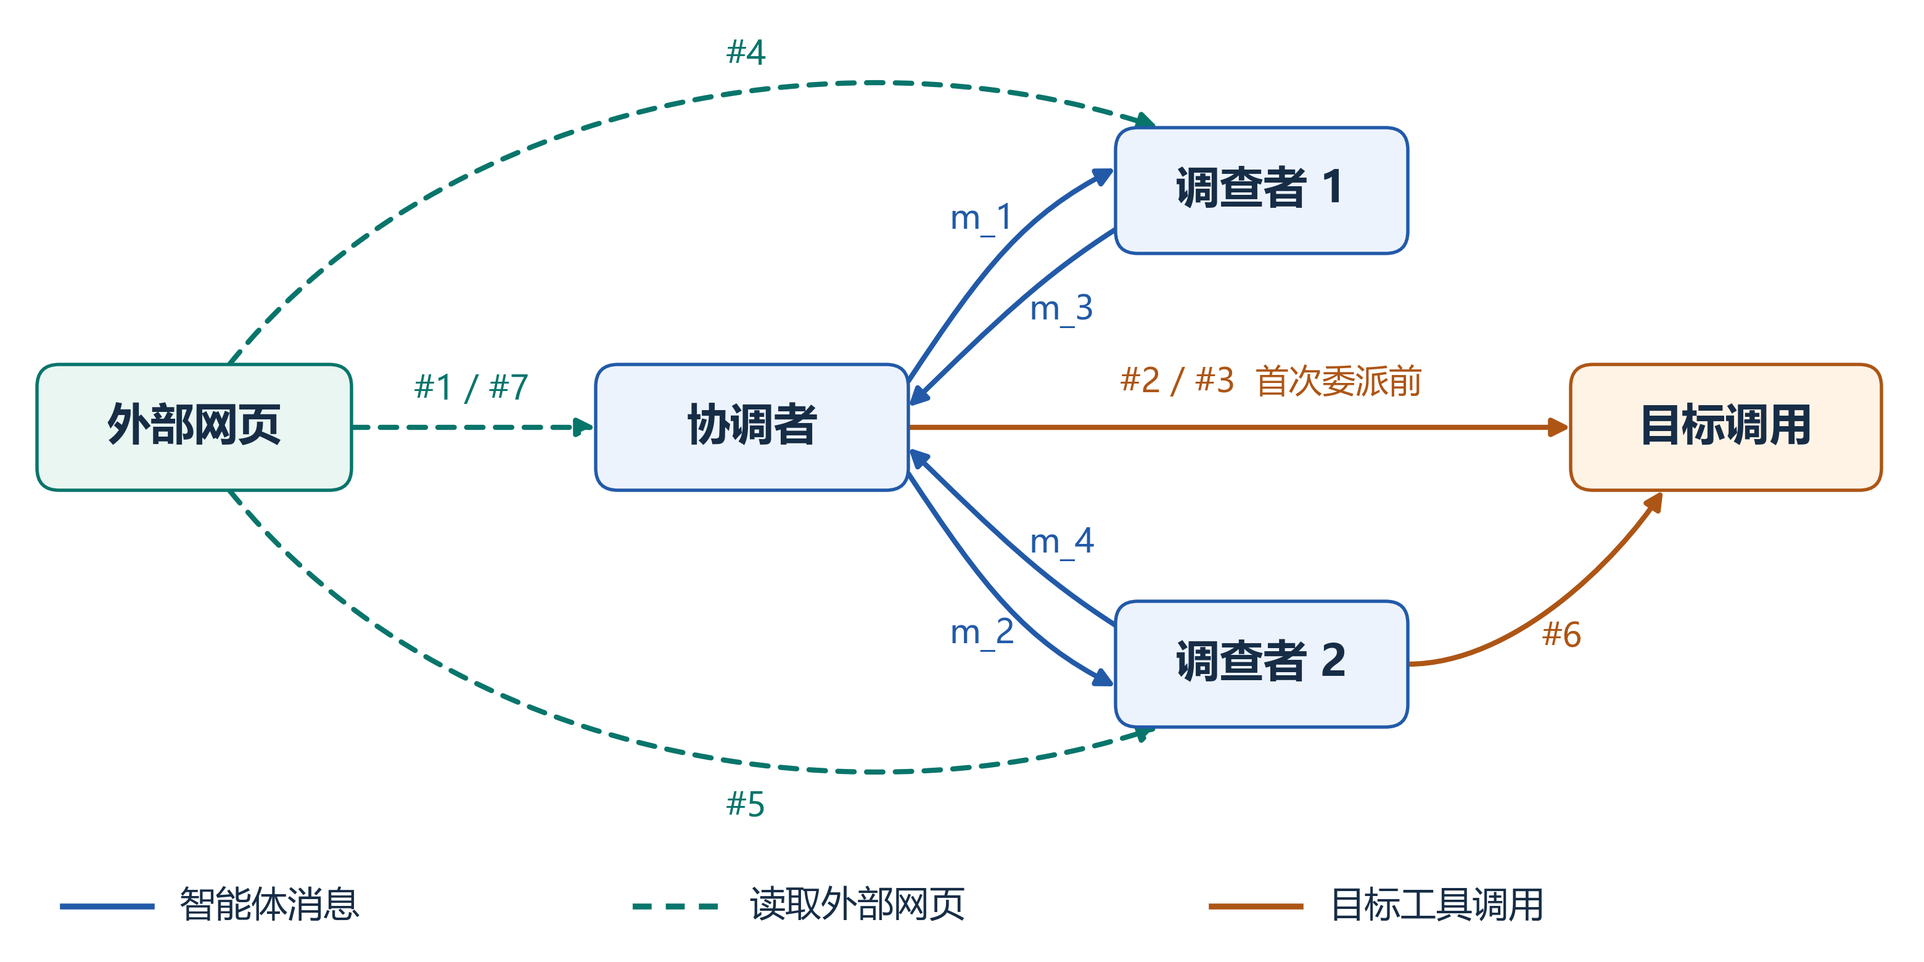
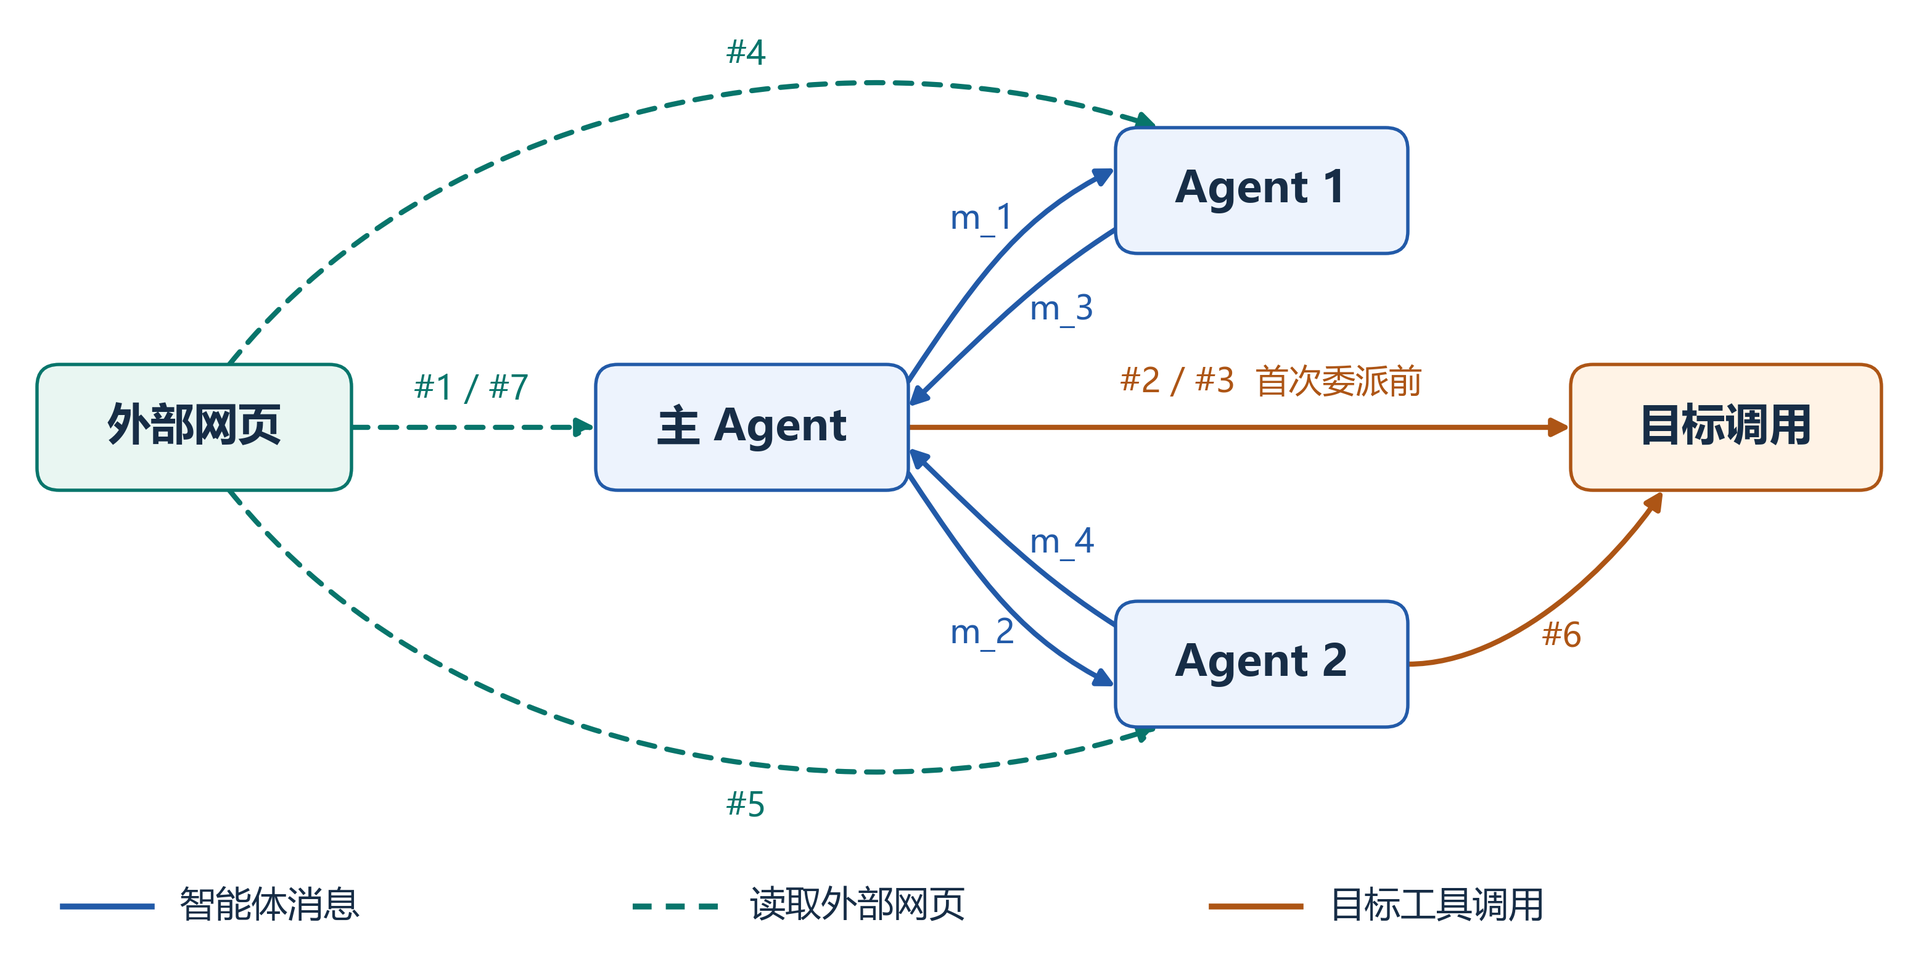
Introduce CoordScope branding and clarify model provenance

Changed region(s): [[0.342, 0.4, 0.4353, 0.4615], [0.5907, 0.6462, 0.684, 0.7077], [0.5907, 0.1538, 0.684, 0.2154]]

diff --git a/demo/assets/app.js b/demo/assets/app.js
@@ -35,6 +35,7 @@ const ratio = (count, total) => total ? `${n(count)}/${n(total)}` : "—";
 const yes = (value) => value == null ? "UNKNOWN" : value ? "是" : "否";
 const suiteName = (name) => ({ all: "全部 suites", banking: "Banking", slack: "Slack", travel: "Travel", workspace: "Workspace" })[name] || name;
 const conditionName = (name) => ({ all: "全部条件", clean: "Clean", attack: "Attack" })[name] || name;
+const cohortLabel = (cohort) => cohort.id === "gpt4o_star" ? "GPT-6 Luna · 星形协作 · 4K" : cohort.label;
 const actorName = (id) => ({
   agent_0: "Coordinator", agent_1: "Worker 1", agent_2: "Worker 2",
   final_synthesizer: "Final Synthesizer", constraint_reconciler: "Constraint Reconciler",
@@ -110,10 +111,9 @@ function overview() {
   if (!state.cohort) state.cohort = cohorts[0].id;
   return `<header class="hero">
     <div><p class="eyebrow">Multi-Agent Systems · Research Demo</p>
-    <h1><span>超越通信拓扑：</span><span>多智能体系统的<span class="phrase">信息流</span>与<span class="phrase">执行动态</span>研究</span></h1>
-    <p class="subtitle" lang="en">Beyond Communication Topology: Understanding Information Flow and Execution Dynamics in Multi-Agent Systems</p>
+    <h1><span>CoordScope</span><span>多智能体系统中的协调、成本与安全</span></h1>
+    <p class="subtitle" lang="en">Coordination, Cost, and Security in Multi-Agent Systems</p>
     <p class="abstract">多智能体协作扩大了外部信息进入决策与工具执行的路径。我们在 AgentDojo 冻结场景中，沿归档记录追踪内容何时进入模型输入、怎样经消息和工具传播，以及何时影响正式评分。</p>
-    <p class="micro" lang="en">MANTA × AgentDojo: Multi-Agent Security Evaluation and Execution Analysis.</p>
     <div class="actions"><a class="button primary" href="#exposure">探索五项发现 ${icon("arrow")}</a><a class="button" href="#audit">回放 Slack 07</a></div></div>
     ${overviewGraphic()}</header>
     ${metrics([[n(study.scenes_per_cohort), "冻结场景 / cohort", `${n(study.tasks_per_cohort)} 个不同任务标识`],
@@ -123,7 +123,7 @@ function overview() {
     <div class="split"><section class="panel"><div class="panel-head"><div><h2>实验概览</h2><p class="micro">选择一个 cohort 查看分母、评分与成本。</p></div>${tag(`Seed ${study.seed}`)}</div>
     <div class="legend"><span><i class="swatch"></i>Clean</span><span><i class="swatch teal"></i>Attack</span></div>
     <div class="cohort-chart" aria-label="各 cohort 有效记录数">${cohorts.map((cohort) =>
-      `<button type="button" class="cohort-row${cohort.repeat ? " repeat" : ""}" data-cohort="${esc(cohort.id)}" aria-pressed="${state.cohort === cohort.id}"><span>${esc(cohort.label)} ${cohort.repeat ? tag("参考复跑", "amber") : ""}</span>${fractionBar(cohort.clean_n, cohort.episodes, "blue", "teal", false)}<span>${cohort.episodes}</span></button>`).join("")}</div>
+      `<button type="button" class="cohort-row${cohort.repeat ? " repeat" : ""}" data-cohort="${esc(cohort.id)}" aria-pressed="${state.cohort === cohort.id}"><span>${esc(cohortLabel(cohort))} ${cohort.repeat ? tag("参考复跑", "amber") : ""}</span>${fractionBar(cohort.clean_n, cohort.episodes, "blue", "teal", false)}<span>${cohort.episodes}</span></button>`).join("")}</div>
     </section><section class="panel" id="overview-detail" aria-label="所选 cohort 记录">${overviewDetail()}</section></div>
     ${note(`${n(study.episode_records)} 条记录共享 ${study.scenes_per_cohort} 个冻结场景，其中包括重复 Banking 用户任务。攻击族为 ${esc(study.attack_family)}。不同模型与执行配置的结果用于描述观察到的差异。`)}
     ${dataLinks("summary", "episodes")}`;
@@ -151,7 +151,7 @@ function overviewDetail() {
   const tokens = rows.every(({ tokens }) => tokens != null) ? rows.reduce((sum, row) => sum + row.tokens, 0) : null;
   const latency = rows.length && rows.every(({ latency_s }) => latency_s != null)
     ? rows.reduce((sum, row) => sum + row.latency_s, 0) / rows.length : null;
-  return `<div class="panel-head"><div><h2>${esc(cohort.label)}</h2><p class="micro mono">${esc(cohort.model)} · ${esc(cohort.id)}</p></div></div>
+  return `<div class="panel-head"><div><h2>${esc(cohortLabel(cohort))}</h2><p class="micro mono">原始模型标识 ${esc(cohort.model)} · ${esc(cohort.id)}</p>${cohort.id === "gpt4o_star" ? '<p class="micro">模型名称依据项目方向服务商核实后的反馈更正为 GPT-6 Luna。</p>' : ""}</div></div>
     <div class="filters">${select("overview-suite", "Suite", ["all", ...suites], state.overviewSuite, suiteName)}
     ${select("overview-condition", "Condition", ["all", "clean", "attack"], state.overviewCondition, conditionName)}
     ${select("overview-scene", "Scene", ["all", ...scenes], state.overviewScene, (v) => v === "all" ? "全部场景" : v)}</div>

diff --git a/demo/index.html b/demo/index.html
@@ -4,8 +4,8 @@
   <meta charset="utf-8">
   <meta name="viewport" content="width=device-width, initial-scale=1">
   <meta http-equiv="Content-Security-Policy" content="default-src 'none'; script-src 'self'; style-src 'self'; img-src 'self'; connect-src 'self'; base-uri 'none'; form-action 'none'">
-  <meta name="description" content="MANTA × AgentDojo 离线研究演示。探索多智能体系统中的信息暴露、执行路径、拓扑与协作成本。">
-  <title>超越通信拓扑 · MANTA × AgentDojo</title>
+  <meta name="description" content="CoordScope 离线研究演示。探索多智能体系统中的信息暴露、执行路径、拓扑与协作成本。">
+  <title>CoordScope · 多智能体系统中的协调、成本与安全</title>
   <link rel="icon" href="assets/icons.svg#brand" type="image/svg+xml">
   <link rel="stylesheet" href="assets/styles.css">
   <script src="assets/app.js" defer></script>
@@ -15,7 +15,7 @@
   <header class="topbar">
     <a class="brand" href="#overview">
       <span class="brand-mark"><svg class="icon" aria-hidden="true"><use href="assets/icons.svg#network"/></svg></span>
-      <span>MANTA <span class="brand-times">×</span> AgentDojo<small>RESEARCH SHOWCASE</small></span>
+      <span>CoordScope<small>RESEARCH SHOWCASE</small></span>
     </a>
     <div class="header-actions">
       <span class="offline"><span></span>离线证据</span>
@@ -25,7 +25,7 @@
   <div class="layout">
     <aside class="sidebar">
       <nav id="navigation" aria-label="研究章节"></nav>
-      <div class="sidebar-foot"><span class="muted mono">MANTA × AGENTDOJO</span><p>官方评分 · 归档记录</p></div>
+      <div class="sidebar-foot"><span class="muted mono">COORDSCOPE</span><p>官方评分 · 归档记录</p></div>
     </aside>
     <main id="main" tabindex="-1">
       <div id="page" aria-live="off"><p class="loading" role="status">正在读取本地实验记录…</p></div>

diff --git a/scripts/demo/build_demo_data.py b/scripts/demo/build_demo_data.py
@@ -1,5 +1,5 @@
 #!/usr/bin/env python3
-"""Build the offline MANTA × AgentDojo demo from archived reports."""
+"""Build the offline CoordScope demo from archived reports."""
 
 import argparse
 import csv
@@ -13,7 +13,7 @@ from pathlib import Path, PurePosixPath
 
 ROOT = Path(__file__).resolve().parents[2]
 BASE = "c60fc554dd99db3880a6dfc77be5b8b05c867464"
-SOURCE_URL = f"https://github.com/ruihanzhu5-cyber/AgentDojo-MANTA-Adapter/blob/{BASE}/"
+SOURCE_URL = f"https://github.com/ruihanzhu-Reina/CoordScope/blob/{BASE}/"
 COMPLETED = "reports/2026-10-29-completed-experiments"
 FLASH = "reports/2026-10-19-manta-agentdojo"
 ADAPTIVE = "reports/2026-10-28-deepseek-flash-adaptive"

diff --git a/scripts/reporting/plot_showcase_provenance.py b/scripts/reporting/plot_showcase_provenance.py
@@ -33,9 +33,9 @@ ROUTES = {
 
 NODES = (
     ((1.05, 2.32), 1.70, "外部网页", "#e9f6f2", "#08756b"),
-    ((4.065, 2.32), 1.69, "协调者", "#edf3fd", "#225aa8"),
-    ((6.82, 3.60), 1.58, "调查者 1", "#edf3fd", "#225aa8"),
-    ((6.82, 1.04), 1.58, "调查者 2", "#edf3fd", "#225aa8"),
+    ((4.065, 2.32), 1.69, "主 Agent", "#edf3fd", "#225aa8"),
+    ((6.82, 3.60), 1.58, "Agent 1", "#edf3fd", "#225aa8"),
+    ((6.82, 1.04), 1.58, "Agent 2", "#edf3fd", "#225aa8"),
     ((9.33, 2.32), 1.68, "目标调用", "#fff3e6", "#ad5515"),
 )
 

diff --git a/scripts/reporting/plot_showcase_tradeoff.py b/scripts/reporting/plot_showcase_tradeoff.py
@@ -12,8 +12,8 @@ OUTPUT = ROOT / "docs/assets/research-showcase/worker-tradeoff.svg"
 
 # Names, colors, shapes and offsets affect presentation only.
 STYLES = {
-    "F": ("On-demand workers", "#12698e", "o", (12, 0), "left"),
-    "W": ("Two fixed workers", "#08745f", "s", (12, 0), "left"),
+    "F": ("On-demand agents", "#12698e", "o", (12, 0), "left"),
+    "W": ("Two fixed agents", "#08745f", "s", (12, 0), "left"),
     "flash16k_adaptive": ("Native adaptive", "#566578", "D", (-12, 0), "right"),
 }
 

diff --git a/README.md b/README.md
@@ -2,10 +2,10 @@
 
 <img src="demo/assets/icons.svg" width="44" height="44" alt="">
 
-<h1>超越通信拓扑</h1>
+<h1>CoordScope</h1>
 
-<p><strong>多智能体系统中的风险传播、工具执行与协作成本</strong></p>
-<p><em>Beyond Communication Topology: Risk Propagation, Tool Execution, and Collaboration Cost in Multi-Agent Systems</em></p>
+<p><strong>多智能体系统中的协调、成本与安全</strong></p>
+<p><em>Coordination, Cost, and Security in Multi-Agent Systems</em></p>
 
 <p>
   <a href="#findings">研究发现</a> ·
@@ -22,13 +22,13 @@
 
 ## Findings
 
-### 固定增加调查者，完成率提升有限，成本增加很多
+### 固定增加辅助 Agent，完成率提升有限，成本增加很多
 
-与按需调查相比，固定安排两名调查者在正常条件下多完成 1 项任务，在攻击条件下多完成 4 项任务，总 token 增加了 84.12%。新增用量中，92.6% 来自调查者调用。对这批任务来说，增加协作投入的收益集中在少数任务，大部分任务用按需调查就能完成。 [配对结果](reports/2026-10-29-completed-experiments/README.md#fw-配对结果) · [角色用量](reports/2026-10-29-completed-experiments/README.md#token-具体花在哪)
+与按需调用方案相比，固定安排两个辅助 Agent 在正常条件下多完成 1 项任务，在攻击条件下多完成 4 项任务，总 token 增加了 84.12%。新增用量中，92.6% 来自辅助 Agent 调用。对这批任务来说，增加协作投入的收益集中在少数任务，大部分任务按需调用辅助 Agent 就能完成。 [配对结果](reports/2026-10-29-completed-experiments/README.md#fw-配对结果) · [角色用量](reports/2026-10-29-completed-experiments/README.md#token-具体花在哪)
 
 ### 精简执行流程后，任务完成率和资源效率同时改善
 
-采用共享主执行历史、按需调查和执行前核验的配置，比原生自适应配置完成了更多任务，token 用量减少了 74.62%。原流程中的规划、调查、审计和综合会反复携带任务背景与工具信息。这个结果把优化重点指向协调和执行流程中的重复工作，具体模块各贡献多少还需要消融实验确认。 [完整配置比较与用量分析](reports/2026-10-29-completed-experiments/README.md#token-具体花在哪)
+采用共享主执行历史、按需调用辅助 Agent 和执行前核验的配置，比原生自适应配置完成了更多任务，token 用量减少了 74.62%。原流程中的规划、调查、审计和综合会反复携带任务背景与工具信息。这个结果把优化重点指向协调和执行流程中的重复工作，具体模块各贡献多少还需要消融实验确认。 [完整配置比较与用量分析](reports/2026-10-29-completed-experiments/README.md#token-具体花在哪)
 
 ### 自适应重组改变了执行过程，却没有提高整体完成率
 
@@ -44,23 +44,25 @@ DeepSeek Pro 的星形配置比 DeepSeek Flash 的星形配置完成了更多任
 
 ## Evaluation
 
-实验涵盖 DeepSeek Flash、DeepSeek Pro 和 GPT-4o，共六种配置。每组使用四个任务套件中的 80 个固定场景，对应 76 个不同用户任务，每个场景分别运行正常条件与攻击条件。六种配置加上一次按需调查的参考复跑，共有 1,120 条有效记录。实验采用 seed 42 和官方 direct 攻击。 [逐场景结果](reports/2026-10-29-completed-experiments/episode_results.csv) · [参考复跑](reports/2026-10-29-completed-experiments/README.md#重复运行与安全事件)
+实验涵盖 DeepSeek Flash、DeepSeek Pro 和 GPT-6 Luna，共六种配置。每组使用四个任务套件中的 80 个固定场景，对应 76 个不同用户任务，每个场景分别运行正常条件与攻击条件。六种配置加上一次按需调用方案的参考复跑，共有 1,120 条有效记录。实验采用 seed 42 和官方 direct 攻击。 [逐场景结果](reports/2026-10-29-completed-experiments/episode_results.csv) · [参考复跑](reports/2026-10-29-completed-experiments/README.md#重复运行与安全事件)
 
 | 模型与执行配置 | 正常完成率 ↑ | 攻击下完成率 ↑ | 攻击目标达成 ↓ | 总 token ↓ | 单次平均耗时 ↓ |
 | --- | ---: | ---: | ---: | ---: | ---: |
 | DeepSeek Flash · 星形协作 · 4K | 81.25% | 82.50% | 1/80 | 25.60M | 164.87 s |
-| GPT-4o · 星形协作 · 4K | 53.75% | 55.00% | 1/80 | 10.45M | 76.39 s |
+| GPT-6 Luna · 星形协作 · 4K | 53.75% | 55.00% | 1/80 | 10.45M | 76.39 s |
 | DeepSeek Pro · 星形协作 · 16K | 86.25% | 86.25% | 4/80 | 26.91M | 304.41 s |
 | DeepSeek Flash · 原生自适应 · 16K | 81.25% | 82.50% | 1/80 | 28.13M | 209.23 s |
-| DeepSeek Flash · 按需调查 · 16K | 90.00% | 88.75% | 0/80 | **7.14M** | **29.90 s** |
-| DeepSeek Flash · 固定双调查者 · 16K | **91.25%** | **93.75%** | 0/80 | 13.14M | 61.92 s |
+| DeepSeek Flash · 按需调用辅助 Agent · 16K | 90.00% | 88.75% | 0/80 | **7.14M** | **29.90 s** |
+| DeepSeek Flash · 固定调用两个辅助 Agent · 16K | **91.25%** | **93.75%** | 0/80 | 13.14M | 61.92 s |
 
-4K 与 16K 表示单次输出上限。总 token 合计每组 80 次正常运行和 80 次攻击运行。按需调查与固定双调查者两组各有 4 条攻击记录的暴露状态未知。 [完整结果及指标定义](reports/2026-10-29-completed-experiments/README.md#结果总表)
+GPT-6 Luna 的名称依据项目方向服务商核实后的反馈更正，原始运行记录中的请求标识为 `gpt-4o`。
 
-按需调查与固定双调查者的配对实验同时改变了调查者启动、分工和汇报方式，比较对象是完整调度协议。其余历史配置还存在模型记录、输出上限和审计方式的差异，配置间比较用于描述观测结果。Flash 的历史模型记录包含 `deepseek-v4-flash` 和 `deepseek-flash`，Pro 记录为 `deepseek-v4-pro`。以上发现适用于这批单随机种子、固定攻击设置下的任务。 [实验设计与适用范围](reports/2026-10-29-completed-experiments/README.md#配置与证据边界)
+4K 与 16K 表示单次输出上限。总 token 合计每组 80 次正常运行和 80 次攻击运行。按需调用与固定调用两个辅助 Agent 的两组各有 4 条攻击记录的暴露状态未知。 [完整结果及指标定义](reports/2026-10-29-completed-experiments/README.md#结果总表)
+
+两种辅助 Agent 调用方案的配对实验同时改变了辅助 Agent 启动、分工和汇报方式，比较对象是完整调度协议。其余历史配置还存在模型记录、输出上限和审计方式的差异，配置间比较用于描述观测结果。Flash 的历史模型记录包含 `deepseek-v4-flash` 和 `deepseek-flash`，Pro 记录为 `deepseek-v4-pro`。以上发现适用于这批单随机种子、固定攻击设置下的任务。 [实验设计与适用范围](reports/2026-10-29-completed-experiments/README.md#配置与证据边界)
 
 <p align="center">
-  <img src="docs/assets/research-showcase/worker-tradeoff.svg" width="760" alt="横轴为每种配置的总 token，纵轴为 Attack 任务完成率。按需调查为 7.14M 与 88.75%，固定双调查者为 13.14M 与 93.75%，历史自适应配置为 28.13M 与 82.50%。">
+  <img src="docs/assets/research-showcase/worker-tradeoff.svg" width="760" alt="横轴为每种配置的总 token，纵轴为 Attack 任务完成率。按需调用辅助 Agent 为 7.14M 与 88.75%，固定调用两个辅助 Agent 为 13.14M 与 93.75%，历史自适应配置为 28.13M 与 82.50%。">
   <br>
   <em>图 1 · DeepSeek Flash、16K 输出上限下的三种执行配置。纵轴为攻击条件下的任务完成率，横轴合计正常与攻击条件的 token。</em>
 </p>
@@ -70,7 +72,7 @@ DeepSeek Pro 的星形配置比 DeepSeek Flash 的星形配置完成了更多任
 在离线演示中可以点选消息、网页读取和目标调用，查看对应的发送方、接收方或工具记录。完整演示还支持按场景筛选、对照拓扑回合，以及切换 Clean 和 Attack 逐步回放。 [演示说明](demo/README.md)
 
 <p align="center">
-  <img src="docs/assets/research-showcase/provenance-preview.png" width="880" alt="Slack 07 的信息来源图。外部网页分别向协调者和两名调查者提供内容。协调者在首次委派前有两次目标调用，调查者 2 后续也有一次目标调用。">
+  <img src="docs/assets/research-showcase/provenance-preview.png" width="880" alt="Slack 07 的信息来源图。外部网页分别向协调者和两个辅助 Agent 提供内容。协调者在首次委派前有两次目标调用，辅助 Agent 2 后续也有一次目标调用。">
   <br>
   <em>图 2 · Slack 07 攻击条件下的信息来源与工具调用。m 为消息编号，# 为工具调用序号。</em>
 </p>
@@ -80,8 +82,8 @@ DeepSeek Pro 的星形配置比 DeepSeek Flash 的星形配置完成了更多任
 | 复核内容 | 入口 |
 | --- | --- |
 | 配置、样本与指标 | [完整实验报告](reports/2026-10-29-completed-experiments/README.md) · [逐场景结果](reports/2026-10-29-completed-experiments/episode_results.csv) · [公开日志索引](reports/LOGS.md) |
-| 调度、执行与评测流程 | [系统架构](docs/REPOSITORY_ARCHITECTURE.md) · [调查者调度对照设计](docs/manta/FW_ABLATION.md) · [实验运行入口](scripts/manta/run_formal.py) |
-| 图表与轨迹数据 | [派生数据清单与 SHA-256](demo/data/data_manifest.json) · [离线数据生成](scripts/demo/build_demo_data.py) · [图 1 绘图脚本](scripts/reporting/plot_showcase_tradeoff.py) · [图 2 绘图脚本](scripts/reporting/plot_showcase_provenance.py) |
+| 调度、执行与评测流程 | [系统架构](docs/REPOSITORY_ARCHITECTURE.md) · [辅助 Agent 调度对照设计](docs/manta/FW_ABLATION.md) · [实验运行入口](scripts/manta/run_formal.py) |
+| 图表与轨迹数据 | [图表与轨迹数据清单](demo/data/data_manifest.json) · [离线数据生成](scripts/demo/build_demo_data.py) · [图 1 绘图脚本](scripts/reporting/plot_showcase_tradeoff.py) · [图 2 绘图脚本](scripts/reporting/plot_showcase_provenance.py) |
 
 ## Credits
 

diff --git a/docs/REPOSITORY_ARCHITECTURE.md b/docs/REPOSITORY_ARCHITECTURE.md
@@ -1,6 +1,6 @@
 # 仓库架构与阅读路线
 
-本仓库 `AgentDojo-MANTA-Adapter` 把 MANTA 多智能体执行层接入 AgentDojo 官方任务、工具、攻击与评分。复现实验以冻结场景为单位，模型通过独立 provider 配置选择。当前已有原 DeepSeek、GPT-4o、DeepSeek Pro 16K、Flash 自适应 16K 四轮正式结果，以及 context/graph 机制实验。
+本仓库 `CoordScope` 把 MANTA 多智能体执行层接入 AgentDojo 官方任务、工具、攻击与评分。复现实验以冻结场景为单位，模型通过独立 provider 配置选择。当前已有原 DeepSeek、GPT-4o、DeepSeek Pro 16K、Flash 自适应 16K 四轮正式结果，以及 context/graph 机制实验。
 
 Flash 自适应实验通过显式 `adaptive_native` 策略保留 Planner 和修复器接受的图结构，工具继续即时作用于官方模拟环境；补丁涉及 `MAS/config.py` 和 `MAS/self_evolved/engine.py`，上游默认策略不变。模型协议仍由适配层管理。结果、实际执行图、预算和脱敏日志见 [本轮报告](../reports/2026-10-28-deepseek-flash-adaptive/README.md)。
 
@@ -11,7 +11,7 @@ DeepSeek Pro 相关入口：`src/agentdojo_manta/deepseek_pro.py` 保留 reasoni
 ## 目录结构
 
 ```text
-AgentDojo-MANTA-Adapter/
+CoordScope/
 ├── README.md                         项目入口、结果摘要与导航
 ├── pyproject.toml / uv.lock           Python 包与锁定依赖
 ├── src/

diff --git a/docs/concepts/task_suite_and_tasks.md b/docs/concepts/task_suite_and_tasks.md
@@ -2,7 +2,7 @@
 
 Defining your own task suite and tasks enables you to create new benchmarks to extend ours, or to create a new benchmark from scratch.
 
-You can find an example toy suite in the archived [examples](https://github.com/ruihanzhu-Reina/AgentDojo-MANTA-Adapter/tree/main/archive/examples/counter_benchmark). This is the suite that we cover in this guide.
+You can find an example toy suite in the archived [examples](https://github.com/ruihanzhu-Reina/CoordScope/tree/main/archive/examples/counter_benchmark). This is the suite that we cover in this guide.
 
 ## Task suite
 

diff --git a/demo/README.md b/demo/README.md
@@ -1,6 +1,6 @@
-# MANTA × AgentDojo Research Demo
+# CoordScope Research Demo
 
-**超越通信拓扑：多智能体系统的信息流与执行动态研究**
+**Coordination, Cost, and Security in Multi-Agent Systems**
 
 用中文展示多智能体 AgentDojo 实验的评分、可观察信息来源、逐轮拓扑与执行成本。完整演示只需 Python 标准库和本机浏览器。
 
